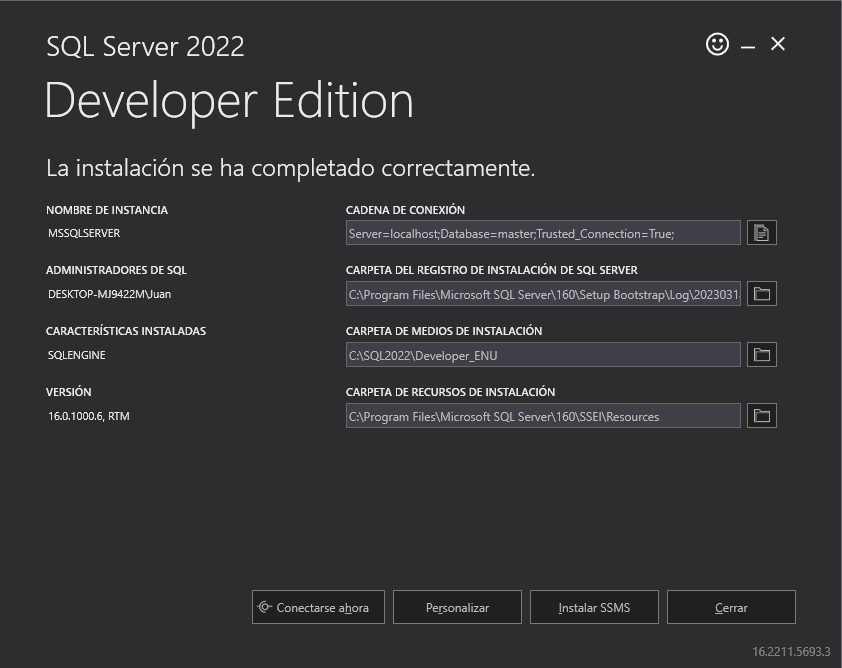
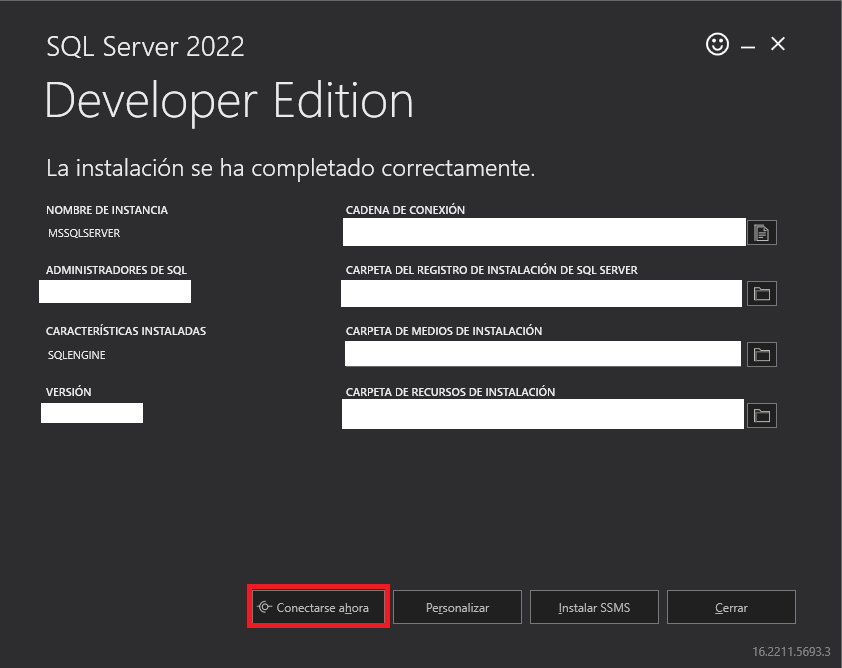
Finishing Como instalar la Foca entry for Hacking Etico page

diff --git a/src/pages/HackingEtico/Posts/InstalacionFoca/InstalacionFoca.js b/src/pages/HackingEtico/Posts/InstalacionFoca/InstalacionFoca.js
@@ -11,7 +11,7 @@ import Footer from '../../../../components/Footer/Footer';
 const InstalacionFoca = () => {
 
   useEffect(() => {
-    window.scrollTo(0,0);
+    window.scrollTo(0, 0);
     hljs.highlightAll();
   }, []);
 
@@ -19,25 +19,18 @@ const InstalacionFoca = () => {
     <>
       <Helmet>
         <title>¿Cómo instalar La FOCA? | Hacking Ético</title>
-        <meta name="description" content="Conceptos iniciales de grafos: nodos, caminos, tipos de grafos, algoritmos de recorrido de grafos y demás en el lenguaje C++."></meta>
+        <meta name="description" content="Instalar la herramienta de análisis y extracción La FOCA con SQL Server de la compañía Eleven Paths."></meta>
         <meta name="keywords" content="
-          conceptos grafos c++,
-          grafos c++,
-          listas de adyacencia c++,
-          matriz de adyacencia c++,
-          grafos ponderados c++,
-          grafos de peso,
-          grafos,
-          conceptos de grafos,
-          tipos de grafos juan diego cobo cabal,
-          nodos grafos juan diego cobo,
-          caminos grafos juan diego,
-          bordes grafos juan,
-          grafos jdcc,
-          grafos juan diego cobo cabal,
-          grafos juan diego cobo,
-          grafos juan diego,
-          grafos juan"/>
+          instalacion foca,
+          como instalar la foca,
+          foca install,
+          foca download,
+          sql server foca,
+          como vincular sql server con la foca,
+          como descargar sql server para la foca,
+          foca sql server,
+          sql server la foca,
+          descargar la foca"/>
       </Helmet>
 
       <div>
@@ -50,14 +43,14 @@ const InstalacionFoca = () => {
 
           <p>
             En esta entrada se explicará cómo instalar la herramienta para la extracción y
-            análisis de metadatos: La FOCA. En términos generales, su instalación es sencilla
+            análisis de metadatos: La FOCA versión 3.4.7.1. En términos generales, su instalación es sencilla
             y lo que más tenemos que tener en cuenta es la instalación y vinculación de SQL Server.
           </p>
 
           <h2 className="mt-5">Requisitos</h2>
 
           <p>
-            Actualmente, La FOCA solo funciona para sistemas operativos Windows
+            Actualmente (19 de Marzo del 2023), La FOCA solo funciona para sistemas operativos Windows
             y estos son los requerimientos que se deben cumplir:
           </p>
 
@@ -75,34 +68,118 @@ const InstalacionFoca = () => {
           <p>
             Debido a que este tutorial se está realizando en el 2023,
             la versión más reciente de SQL Server es la del 2022.
-            Para comenzar, tendremos que dirigirnos al siguiente 
+            Para comenzar, tendremos que dirigirnos al siguiente
             {' '}<a href="https://www.microsoft.com/en-us/sql-server/sql-server-downloads">link</a>{' '}
             y bajar hasta la sección que muestre las versiones gratis
             {' '}<span className="badge text-dark m-0 p-0 text-break">developer</span>{' '}
             o
             {' '}<span className="badge text-dark m-0 p-0 text-break">express</span>.{' '}
-            En mi caso, he utilizado la versión 
+            En mi caso, he utilizado la versión
             {' '}<span className="badge text-dark m-0 p-0 text-break">developer</span>{' '}
-            por lo que se da click en 
+            por lo que se da click en
             {' '}<span className="badge text-dark m-0 p-0 text-break">download</span>{' '}
             y se guarda el ejecutable.
           </p>
 
-          <div className="w-100 mt-5">
+          <div className="w-100 mt-5 text-center">
             <img className="img-fluid" src={process.env.PUBLIC_URL + "/octavo-semestre/hacking-etico/3.png"} />
           </div>
 
-          <p>
+          <p className="mt-5">
             Una vez se ha terminado la descarga,
             abrimos dicho ejecutable, aceptamos los términos y condiciones y, en mi caso,
             seleccionamos la opción básica. Posterior a esto, damos
             {' '}<span className="badge text-dark m-0 p-0 text-break">siguiente</span>{' '}
             en los demás puntos y esperamos a que se efectúe la descarga.
-          </p>          
+          </p>
 
-          <div className="w-100 mt-5">
-            <img className="w-100" src={process.env.PUBLIC_URL + "/octavo-semestre/hacking-etico/1.png"} />
+          <div className="w-100 mt-5 text-center">
+            <img className="img-fluid" src={process.env.PUBLIC_URL + "/octavo-semestre/hacking-etico/1.png"} />
           </div>
+
+          <p className="mt-5">
+            Finalizada la descarga, nos mostrará una serie de características. En esta pantalla final,
+            haremos click en el botón
+            {' '}<span className="badge text-dark m-0 p-0 text-break">Conectarse ahora.</span>{' '}
+          </p>
+
+          <div className="w-100 mt-5 text-center">
+            <img className="img-fluid" src={process.env.PUBLIC_URL + "/octavo-semestre/hacking-etico/4.png"} />
+          </div>
+
+          <p className="mt-5">
+            El botón nos abrirá una consola de comandos donde estaremos gestionando la base de datos.
+            En caso de haber cerrado esta pestaña, desde una consola de comandos se podrá abrir
+            digitando el comando:
+            {' '}<span className="badge text-dark m-0 p-0 text-break">sqlcmd.</span>{' '}
+          </p>
+
+          <p>
+            Una vez nos encontramos en la base de datos realizaremos dos operaciones:
+          </p>
+
+          <ol>
+            <li>Determinar el nombre del servidor SQL Server.</li>
+            <li>Agregar una base de datos de nombre:
+              {' '}<span className="badge text-dark m-0 p-0 text-break">Foca.</span>{' '}
+            </li>
+          </ol>
+
+          <div className="p-3 bg-info my-5">
+            <h6>Nota</h6>
+
+            <p>
+              Generalmente, no es necesario hacer el paso 2 ya que una vez el programa
+              se conecta con el servidor, este crea la base de datos. Sin embargo,
+              existen otras ocasiones en donde, si se está reinstalando el servidor,
+              sí nos pedirá que creemos la base de datos previamente.
+            </p>
+          </div>
+
+          <p>
+            Para determinar el nombre del servidor bastara con digitar el comando:
+          </p>
+
+          <pre>
+            <code className="language-sql">
+              {
+                "SELECT @@SQLSERVER;\n" +
+                "go"
+              }
+            </code>
+          </pre>
+
+          <p>
+            Posteriormente, para crear la base de datos digitaremos:
+          </p>
+
+          <pre>
+            <code className="language-sql">
+              {
+                "CREATE DATABASE Foca;\n" +
+                "go"
+              }
+            </code>
+          </pre>
+
+          <p>
+            Y ya tendremos nuestro servidor SQL Server, correctamente configurado.
+          </p>
+
+          <h2 className="mt-5">
+            Instalación de requisitos adicionales
+          </h2>
+
+          <p>
+            Para la instalación de los demás requisitos basta con dirigirse a las
+            páginas que se mostrarán a continuación, descargar los ejecutables
+            y dar click en siguiente en cada paso:
+          </p>
+
+          <ul>
+            <li><a href="https://dotnet.microsoft.com/en-us/download/dotnet-framework">Microsoft .NET Framework.</a></li>
+            <li><a href="https://learn.microsoft.com/en-us/cpp/windows/latest-supported-vc-redist?view=msvc-170">Microsoft Visual C++.</a></li>
+          </ul>
 
           <h2 className="mt-5">
             Instalación de La FOCA
@@ -111,12 +188,38 @@ const InstalacionFoca = () => {
           <p>
             Para la instalación de la herramienta como tal tendremos que dirigirnos al enlace de
             {' '}<a href="">releases</a>{' '}
-            donde descargaremos la versión X.X en el formato 
+            donde descargaremos la versión 3.4.7.1 en el formato
             {' '}<span className="badge text-dark m-0 p-0 text-break">.zip.</span>{' '}
             Luego, extraemos el comprimido y abrimos el archivo
-            {' '}<span className="badge text-dark m-0 p-0 text-break">FOCA.exe.</span>{' '}
+            {' '}<span className="badge text-dark m-0 p-0 text-break">FOCA.exe</span>{' '}
+            que aparece con el ícono del programa.
             Al iniciar, nos pedirá que establezcamos la instancia de nuestro SQL Server,
-            con el cual, nada más agregaremos el nombre del pc y estaría listo.
+            para el cual digitaremos el nombre que hallamos en los pasos anteriores
+            y, si la base de datos fue creada anteriormente con éxito, nos debe
+            dejar ingresar con normalidad.
+          </p>
+
+          <div className="text-center w-100 mt-5">
+            <img className="img-fluid" src={process.env.PUBLIC_URL + "/octavo-semestre/hacking-etico/5.png"} />
+          </div>
+
+          <h2 className="h2 text-dark mt-5">
+            Finalización
+          </h2>
+
+          <p>
+            Esta ha sido una guía corta para instalar la herramienta de extracción y
+            análisis de metadatos: La Foca.
+            <br /><br />
+            Cualquier duda, queja, recomendación o donación que deseen realizar me pueden contactar por telegram:
+            {' '}<a href="https://t.me/Juan_0_0_1" target="_blank">https://t.me/Juan_0_0_1</a>.
+            Espero les haya sido de gran ayuda :)
+          </p>
+
+          <p>
+            Fecha de publicación: 19-03-2023.
+            <br />
+            Autor: Juan Diego Cobo Cabal.
           </p>
         </div>
 

diff --git a/src/pages/Home/Home.js b/src/pages/Home/Home.js
@@ -38,6 +38,17 @@ const Home = () => {
 
           <div className="card my-5">
             <div className="card-body">
+              <h5 className="card-title">¿Cómo instalar la FOCA?</h5>
+              <p className="card-text">
+                Tutorial corto de cómo instalar la herramienta para la extracción y
+                análisis de metadatos: La FOCA.
+              </p>
+              <Link className="btn btn-dark" to="/cursos/hacking-etico/entradas/como-instalar-la-foca">Ver entrada</Link>
+            </div>
+          </div>
+
+          <div className="card my-5">
+            <div className="card-body">
               <h5 className="card-title">React + TypeScript + MySQL + Imgs</h5>
               <p className="card-text">
                 Desarrollo de una aplicación web
@@ -81,18 +92,6 @@ const Home = () => {
                 que provee la plataforma misma.
               </p>
               <Link className="btn btn-dark" to="/cursos/servicios-telematicos/entradas/iot-ubidots">Ver entrada</Link>
-            </div>
-          </div>
-
-          <div className="card my-5">
-            <div className="card-body">
-              <h5 className="card-title">JSON Placeholder  + Apache + Centos 8</h5>
-              <p className="card-text">
-                Desarrollo de práctica para crear un aplicativo
-                en una máquina virtual Centos 8 utilizando JSON Placeholder y
-                desplegando el servicio en Apache.
-              </p>
-              <Link className="btn btn-dark" to="/cursos/servicios-telematicos/entradas/json-placeholder-centos">Ver entrada</Link>
             </div>
           </div>
 
